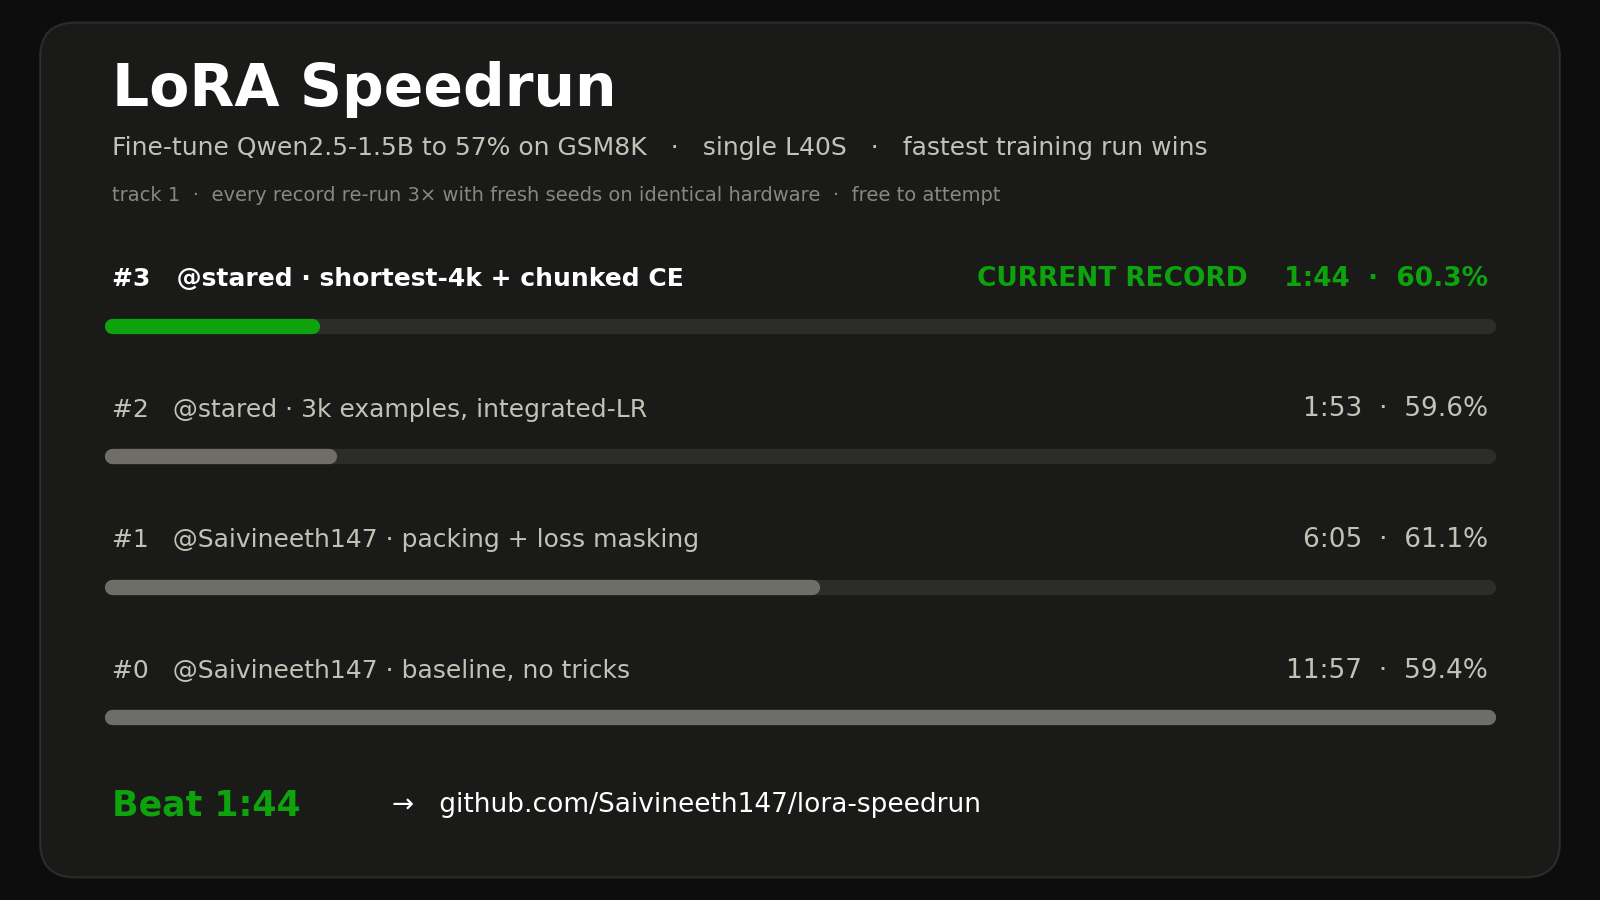
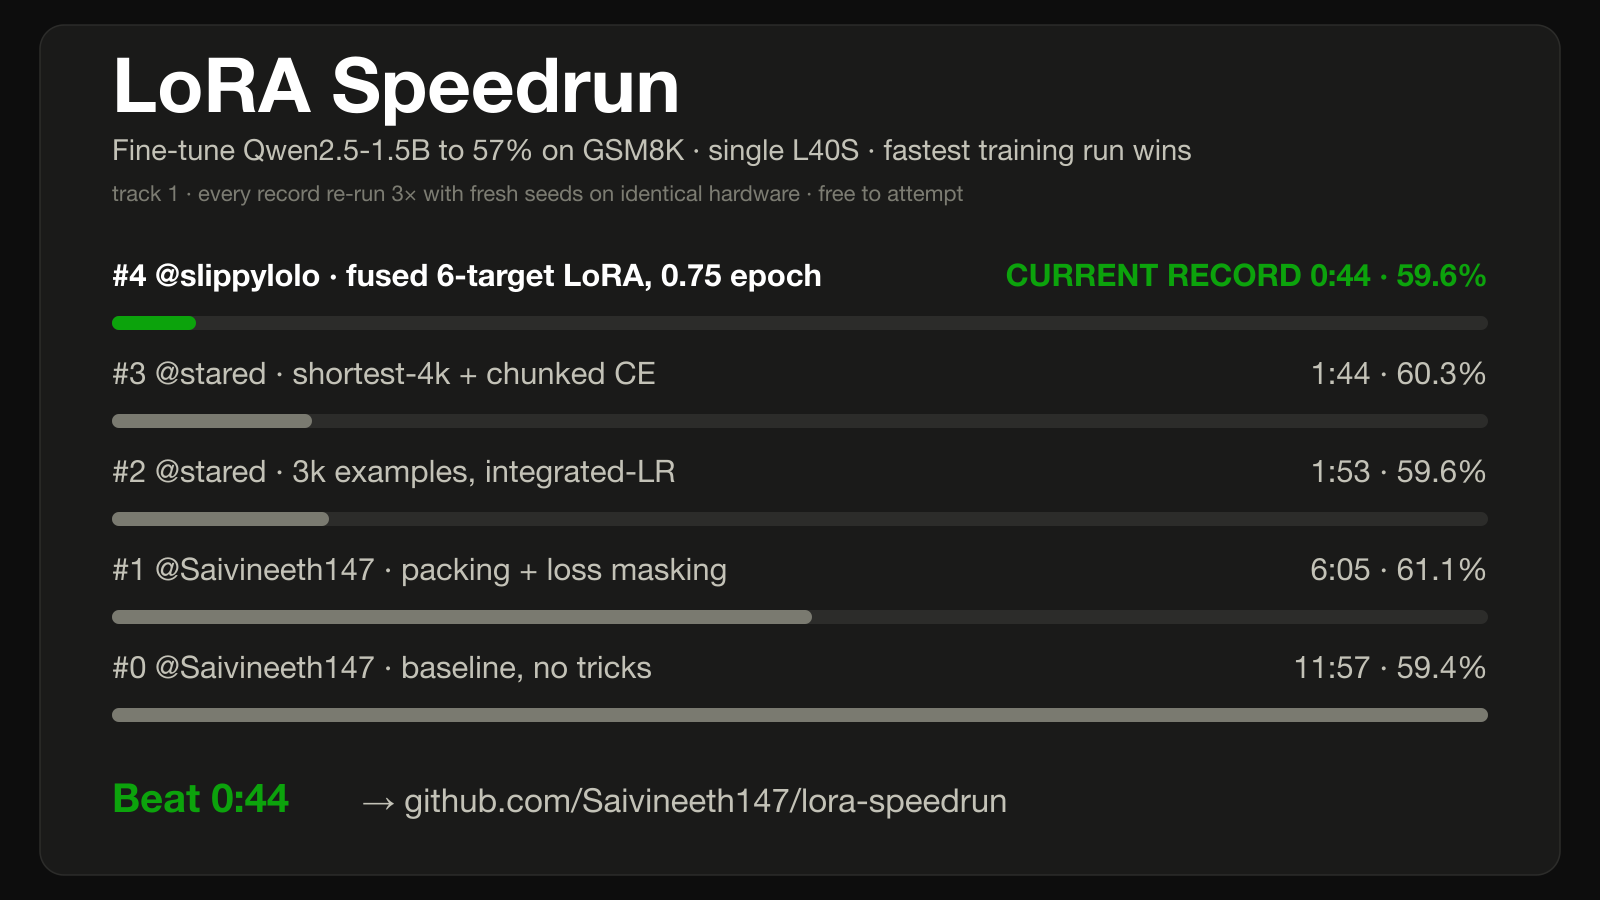
Hero card: record #4 (0:44), five-record progression; add generator
The card was hand-maintained and drifted (still showed 1:44 / four records).
Add scripts/generate_hero_card.py so docs/leaderboard.png regenerates from
records/records.json the same way the markdown leaderboards do, and refresh the
image + README alt text for the new 0:44 record (-94% vs the 11:57 baseline).

diff --git a/scripts/generate_hero_card.py b/scripts/generate_hero_card.py
@@ -1,0 +1,151 @@
+"""Regenerate the Track 1 hero card (docs/leaderboard.png) from records/records.json.
+
+The markdown leaderboards are rebuilt by scripts/update_leaderboard.py; this does the
+same for the PNG card shown at the top of the README, so the image never drifts from the
+data. Emits an SVG and rasterizes it with rsvg-convert (already used in this repo's
+tooling). Run after editing records.json:
+
+    python scripts/generate_hero_card.py
+
+Bars are proportional to training wall-clock (slowest verified record = full width).
+Records are shown best-on-top; the fastest verified record is highlighted in green.
+"""
+
+import html
+import json
+import subprocess
+from pathlib import Path
+
+REPO_ROOT = Path(__file__).resolve().parent.parent
+TRACK = "t1"
+OUT_PNG = REPO_ROOT / "docs" / "leaderboard.png"
+OUT_SVG = REPO_ROOT / "docs" / "leaderboard.svg"
+
+W, H = 1600, 900
+GREEN = "#0ca30c"
+WHITE = "#ffffff"
+GRAY = "#c3c2b7"       # subtitle + value text
+DIM = "#7c7c72"        # meta line
+BAR_TRACK = "#2c2c2a"
+BAR_GRAY = "#7a7a70"   # non-record bar fill
+CARD_BG = "#1a1a19"
+OUTER_BG = "#0d0d0d"
+FONT = "Helvetica Neue, Helvetica, Arial, sans-serif"
+
+LEFT_X = 112
+RIGHT_X = 1488
+BAR_W = RIGHT_X - LEFT_X
+
+# Short, card-friendly technique labels. A record may override with a "card_label"
+# field in records.json; otherwise this map is used, then a truncation fallback.
+CARD_LABELS = {
+    ("t1", 0): "baseline, no tricks",
+    ("t1", 1): "packing + loss masking",
+    ("t1", 2): "3k examples, integrated-LR",
+    ("t1", 3): "shortest-4k + chunked CE",
+    ("t1", 4): "fused 6-target LoRA, 0.75 epoch",
+}
+
+
+def fmt_time(seconds):
+    m, s = divmod(int(round(seconds)), 60)
+    return f"{m}:{s:02d}"
+
+
+def mean_acc(rec):
+    return sum(rec["accuracies"]) / len(rec["accuracies"])
+
+
+def card_label(rec):
+    return (
+        rec.get("card_label")
+        or CARD_LABELS.get((rec.get("track", "t1"), rec["id"]))
+        or (rec["description"][:38].rstrip(" ,.:") + "…")
+    )
+
+
+def esc(s):
+    return html.escape(str(s), quote=False)
+
+
+def text(x, y, s, size, fill, *, weight="normal", anchor="start"):
+    return (
+        f'<text x="{x}" y="{y}" font-family="{FONT}" font-size="{size}" '
+        f'font-weight="{weight}" fill="{fill}" text-anchor="{anchor}">{esc(s)}</text>'
+    )
+
+
+def bar(y, frac, fill):
+    frac = max(0.0, min(1.0, frac))
+    w = max(10, round(BAR_W * frac))
+    return (
+        f'<rect x="{LEFT_X}" y="{y}" width="{BAR_W}" height="14" rx="7" fill="{BAR_TRACK}"/>'
+        f'<rect x="{LEFT_X}" y="{y}" width="{w}" height="14" rx="7" fill="{fill}"/>'
+    )
+
+
+def build_svg(records):
+    recs = [r for r in records if r.get("track", "t1") == TRACK
+            and r["status"] == "verified" and r["time_seconds_mean"] is not None]
+    recs.sort(key=lambda r: r["id"])
+    slowest = max(r["time_seconds_mean"] for r in recs)
+    fastest = min(r["time_seconds_mean"] for r in recs)
+    record_id = next(r["id"] for r in recs if r["time_seconds_mean"] == fastest)
+    rows = list(reversed(recs))  # best on top
+
+    parts = [
+        f'<svg xmlns="http://www.w3.org/2000/svg" width="{W}" height="{H}" '
+        f'viewBox="0 0 {W} {H}">',
+        f'<rect width="{W}" height="{H}" fill="{OUTER_BG}"/>',
+        f'<rect x="40" y="25" width="1520" height="850" rx="24" fill="{CARD_BG}" '
+        f'stroke="{BAR_TRACK}" stroke-width="1.5"/>',
+        text(LEFT_X, 112, "LoRA Speedrun", 76, WHITE, weight="bold"),
+        text(LEFT_X, 160,
+             "Fine-tune Qwen2.5-1.5B to 57% on GSM8K   ·   single L40S   ·   "
+             "fastest training run wins", 29, GRAY),
+        text(LEFT_X, 201,
+             "track 1  ·  every record re-run 3× with fresh seeds on identical "
+             "hardware  ·  free to attempt", 22, DIM),
+    ]
+
+    label_y0, pitch = 286, 98
+    for i, rec in enumerate(rows):
+        ly = label_y0 + i * pitch
+        by = ly + 30
+        is_rec = rec["id"] == record_id
+        handle = f"@{rec['github']}"
+        left = f"#{rec['id']}   {handle} · {card_label(rec)}"
+        tstr, astr = fmt_time(rec["time_seconds_mean"]), f"{mean_acc(rec):.1%}"
+        if is_rec:
+            parts.append(text(LEFT_X, ly, left, 31, WHITE, weight="bold"))
+            parts.append(text(RIGHT_X, ly,
+                              f"CURRENT RECORD    {tstr}  ·  {astr}", 31, GREEN,
+                              weight="bold", anchor="end"))
+            parts.append(bar(by, rec["time_seconds_mean"] / slowest, GREEN))
+        else:
+            parts.append(text(LEFT_X, ly, left, 31, GRAY))
+            parts.append(text(RIGHT_X, ly, f"{tstr}  ·  {astr}", 31, GRAY,
+                              anchor="end"))
+            parts.append(bar(by, rec["time_seconds_mean"] / slowest, BAR_GRAY))
+
+    parts.append(text(LEFT_X, 812, f"Beat {fmt_time(fastest)}", 40, GREEN, weight="bold"))
+    parts.append(text(LEFT_X + 250, 812,
+                      "→   github.com/Saivineeth147/lora-speedrun", 33, GRAY))
+    parts.append("</svg>")
+    return "\n".join(parts)
+
+
+def main():
+    data = json.loads((REPO_ROOT / "records" / "records.json").read_text())
+    svg = build_svg(data["records"])
+    OUT_SVG.write_text(svg)
+    subprocess.run(
+        ["rsvg-convert", "-w", str(W), "-h", str(H), "-o", str(OUT_PNG), str(OUT_SVG)],
+        check=True,
+    )
+    OUT_SVG.unlink()  # SVG is just an intermediate; only the PNG is committed
+    print(f"wrote {OUT_PNG.relative_to(REPO_ROOT)}")
+
+
+if __name__ == "__main__":
+    main()

diff --git a/README.md b/README.md
@@ -15,7 +15,7 @@ Modal's free monthly compute credits cover full runs — so anyone can compete, 
 can re-verify any record with one command.
 
 <p align="center">
-  <img src="docs/leaderboard.png" alt="LoRA Speedrun leaderboard — 11:57 baseline to 1:44 current record (−86%) across four verified records" width="760">
+  <img src="docs/leaderboard.png" alt="LoRA Speedrun leaderboard — 11:57 baseline to 0:44 current record (−94%) across five verified records" width="760">
 </p>
 
 ## Leaderboard
